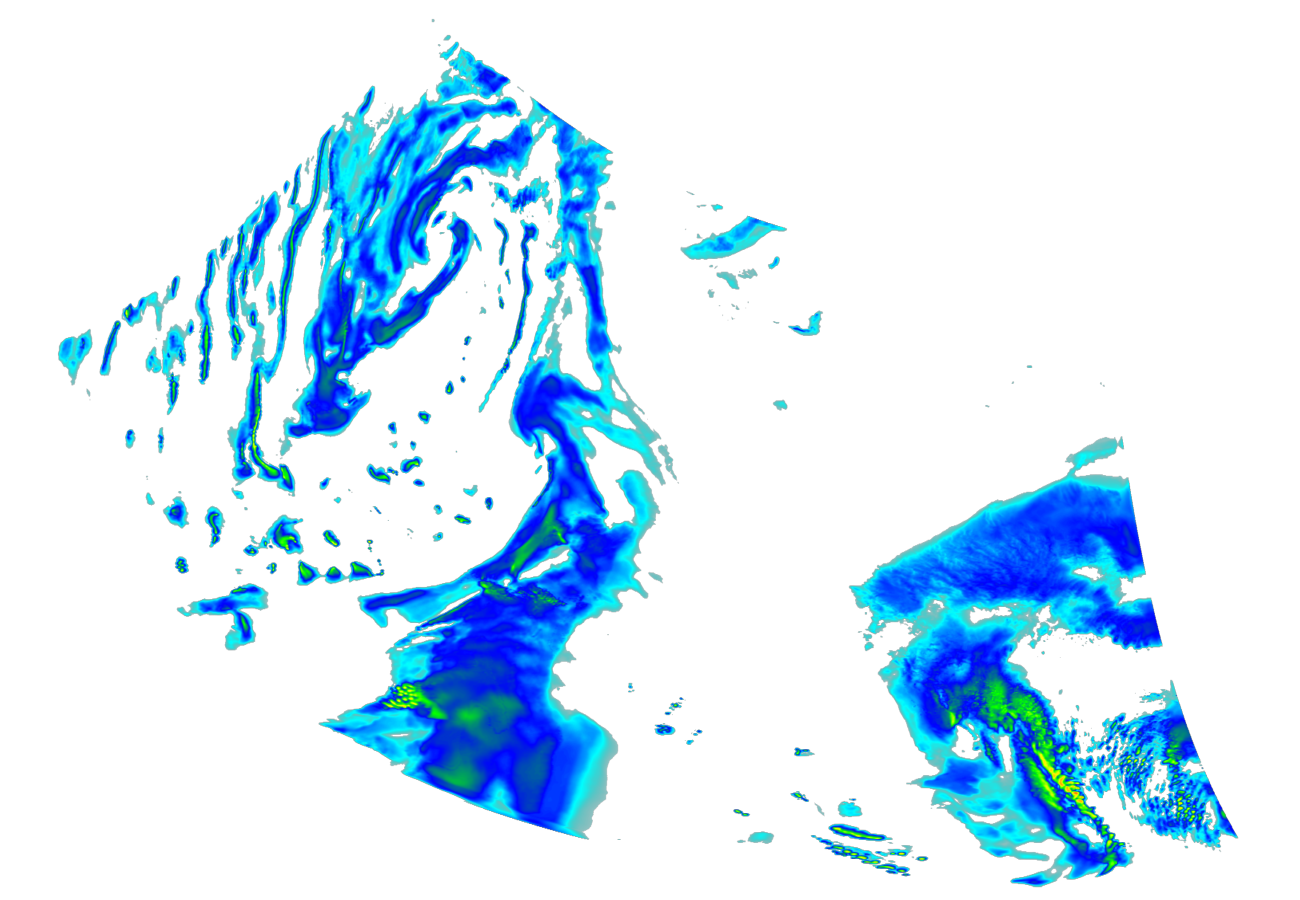
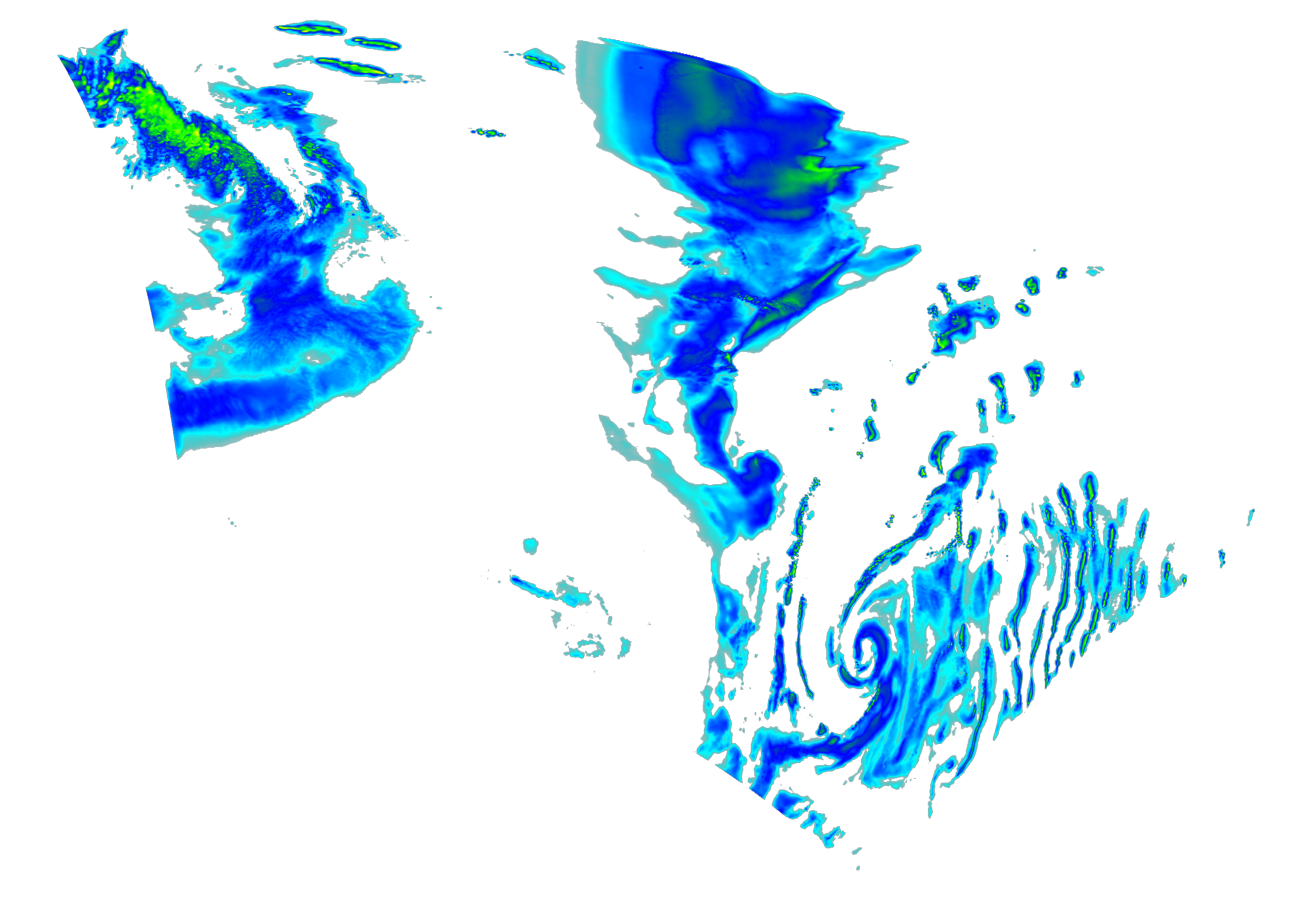
Rotate image 180° and add visible boundary stroke
IMAGE ROTATION:
- Applied 180° rotation to HRRR data (double flip: vertical + horizontal)
- Fixes orientation issue where image was flipped incorrectly
- Rotation applied in reprojection before visualization

BOUNDARY VISIBILITY:
- Changed boundary polygon from red (weight 2) to bright green (weight 4)
- Increased line weight from 2px to 4px for better visibility
- Set full opacity (1.0) to ensure stroke is clearly visible
- Applied to both index.html and alignment-ui.html

This allows you to see exactly how the radar data aligns with the actual grid boundaries for precise alignment verification.

diff --git a/index.html b/index.html
@@ -123,14 +123,15 @@
                 console.log('✓ Image overlay added');
                 console.log();
 
-                // Add boundary polygon
+                // Add boundary polygon with visible stroke
                 var boundaryCoords = data.boundary_polygon.map(p => [p.lat, p.lon]);
 
                 L.polygon(boundaryCoords, {
-                    color: 'red',
-                    weight: 2,
+                    color: '#00ff00',  // Bright green for visibility
+                    weight: 4,         // Thicker line
                     fillOpacity: 0,
-                    interactive: false
+                    interactive: false,
+                    opacity: 1.0       // Full opacity
                 }).addTo(map);
 
                 console.log('✓ Boundary polygon added (' + boundaryCoords.length + ' points)');

diff --git a/alignment-ui.html b/alignment-ui.html
@@ -439,12 +439,13 @@
                         { opacity: 0.7 }
                     ).addTo(map);
 
-                    // Add boundary
+                    // Add boundary with visible stroke
                     const boundaryCoords = data.boundary_polygon.map(p => [p.lat, p.lon]);
                     boundaryPolygon = L.polygon(boundaryCoords, {
-                        color: 'red',
-                        weight: 2,
-                        fillOpacity: 0
+                        color: '#00ff00',  // Bright green for visibility
+                        weight: 4,         // Thicker line
+                        fillOpacity: 0,
+                        opacity: 1.0       // Full opacity
                     }).addTo(map);
 
                     map.fitBounds(imageBounds);

diff --git a/reproject_continuous.py b/reproject_continuous.py
@@ -214,7 +214,10 @@ def main():
     ax.set_position([0, 0, 1, 1])
     ax.axis('off')
 
-    ax.imshow(dst_data, cmap=cmap, aspect='auto',
+    # Rotate 180 degrees (flip both vertically and horizontally)
+    dst_data_rotated = np.flip(np.flip(dst_data, axis=0), axis=1)
+
+    ax.imshow(dst_data_rotated, cmap=cmap, aspect='auto',
               extent=[lon_min, lon_max, lat_min, lat_max],
               vmin=vmin, vmax=vmax, interpolation='bilinear',
               origin='lower')
